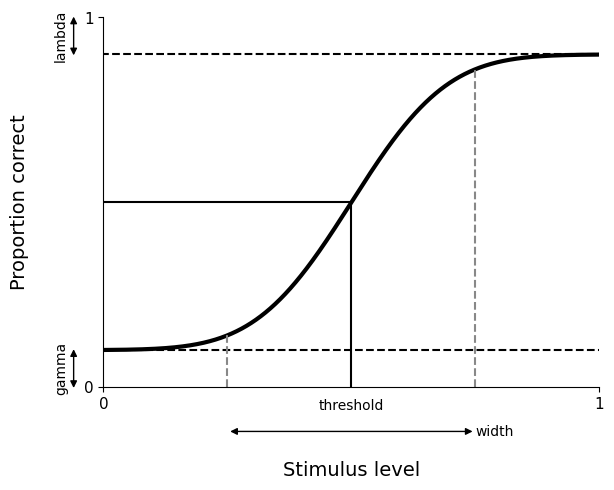
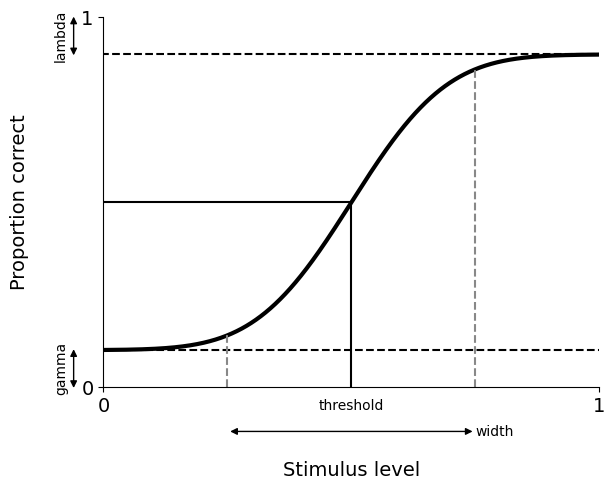
docs: update advanced options page, with visualization for thresh_PC and width_alpha

diff --git a/docs/produce_sigmoid_plot_for_docs_advanced.py b/docs/produce_sigmoid_plot_for_docs_advanced.py
@@ -8,8 +8,11 @@ sigmoid = sigmoids.sigmoid_by_name('norm', PC=0.5, alpha=0.05)
 
 threshold = 0.5
 width = 0.5
-gamma = 0.1
-lambda_ = 0.1
+gamma = 0.0
+lambda_ = 0.0
+
+width_alpha = 0.05
+
 
 gray = '#888888'
 
@@ -26,32 +29,30 @@ ax.spines[['top', 'right']].set_visible(False)
 ax.vlines(x=threshold, ymin=0, ymax=0.5, color='k', linestyle='-')
 ax.hlines(y=0.5, xmin=x.min(), xmax=threshold, color='k', linestyle='-')
 
-# gamma and lambda dashed lines
-ax.hlines(y=(1-lambda_), xmin=x.min()-0.05, xmax=x.max(), color='k', linestyle='--')
-ax.hlines(y=gamma, xmin=x.min()-0.05, xmax=x.max(), color='k', linestyle='--')
-
 
 # width dashed lines
-x2 = sigmoid.inverse(0.95, threshold, width)
-x1 = sigmoid.inverse(0.05, threshold, width)
+x2 = sigmoid.inverse(1-width_alpha, threshold, width)
+x1 = sigmoid.inverse(width_alpha , threshold, width)
 
 ax.vlines(x=x1, ymin=0, ymax=sigmoid(x1, threshold, width, gamma, lambda_),
           color=gray, linestyle='--')
 ax.vlines(x=x2, ymin=0, ymax=sigmoid(x2, threshold, width, gamma, lambda_),
           color=gray, linestyle='--')
 
-#ax.hlines(y=0.95-lambda_, xmin=0, xmax=x2, color=gray, linestyle='--')
-#ax.hlines(y=0.05+gamma, xmin=0, xmax=x1, color=gray, linestyle='--')
-
-#ax.annotate('0.05+gamma', xy=(0.0, 0.05+gamma), xytext=(-0.01, 0.05+gamma),
-#            xycoords='axes fraction', textcoords='axes fraction',
-#            ha='right', va='center', fontsize=10)
+ax.hlines(y=1-width_alpha, xmin=0, xmax=x2, color='k', linestyle='--')
+ax.hlines(y=width_alpha, xmin=0, xmax=x1, color='k', linestyle='--')
 
 
 # annotate threshold
 ax.annotate('threshold', xy=(0.5, -0.05), xytext=(0.5, -0.05),
             xycoords='axes fraction', textcoords='axes fraction',
             ha='center', va='center', fontsize=10)
+
+# annotate threshold_PC
+ax.annotate('thresh_PC', xy=(-0.05, 0.5), xytext=(-0.015, 0.5),
+            xycoords='axes fraction', textcoords='axes fraction',
+            ha='right', va='center', fontsize=10)
+
 
 # annotate width
 arrow_linecolor = 'black'
@@ -72,27 +73,27 @@ ax.annotate('width', xy=(x2, -0.12), xytext=(x2, -0.12),
 yoffset = -0.06
 
 
-ax.annotate('', xy=(yoffset, -0.01), xytext=(yoffset, gamma+0.01),
+ax.annotate('', xy=(yoffset, -0.015), xytext=(yoffset, width_alpha+0.015),
             xycoords='axes fraction', textcoords='axes fraction',
             arrowprops={'arrowstyle': '<|-|>',
                         'color': arrow_linecolor,
                         'linewidth': arrow_linewidth})
 
-ax.annotate('gamma', xy=(yoffset-0.025, 0),
-            xytext=(yoffset-0.025, gamma/2), xycoords='axes fraction',
+ax.annotate('width_alpha', xy=(yoffset-0.025, 0),
+            xytext=(yoffset-0.025, width_alpha/2), xycoords='axes fraction',
             textcoords='axes fraction', rotation=90, ha='center', va='center',
             fontsize=10)
 
 # annotate lambda
-ax.annotate('', xy=(yoffset, 1-lambda_-0.01), xytext=(yoffset, 1+0.01),
+ax.annotate('', xy=(yoffset, 1-width_alpha -0.02), xytext=(yoffset, 1+0.02),
             xycoords='axes fraction', textcoords='axes fraction',
             arrowprops={'arrowstyle': '<|-|>',
                         'color': arrow_linecolor,
                         'linewidth': arrow_linewidth})
 
 
-ax.annotate('lambda', xy=(yoffset-0.025, 0),
-            xytext=(yoffset-0.025, (1-lambda_/2)),
+ax.annotate('width_alpha ', xy=(yoffset-0.025, width_alpha),
+            xytext=(yoffset-0.025, (1-width_alpha /2)),
             xycoords='axes fraction', textcoords='axes fraction',
             rotation=90,
             ha='center', va='center', fontsize=10)
@@ -107,6 +108,8 @@ ax.set_yticklabels(["0", "1"], fontsize=14)
 ax.set_ylabel('Proportion correct', fontsize=14)
 ax.set_xlabel('Stimulus level', fontsize=14)
 ax.xaxis.set_label_coords(.5, -.2)
-ax.yaxis.set_label_coords(-.15, .5)
+ax.yaxis.set_label_coords(-.175, .5)
 
-fig.savefig('sigmoid_and_params.png', bbox_inches='tight')
+plt.show()
+
+fig.savefig('sigmoid_and_params_advanced.png', bbox_inches='tight')

diff --git a/docs/examples/advanced-options.md b/docs/examples/advanced-options.md
@@ -36,8 +36,13 @@ res = ps.psignifit(data, sigmoid='norm', experiment_type='2AFC')
 ## Estimation Type
 As described in detail in the section [Parameters estimates: MAP and mean](map_vs_mean), this option sets how you want to estimate your fit from the posterior.
 
-- 'mean': using the posterior mean. In a Bayesian sense this is a more suitable estimate of the expected value of the posterior. However, in our paper we show that for psychometric function fitting and the small datasets used in experimental psychology and the neurosciences, and for the our priors the MAP is preferable as default!
-- 'MAP': maximum a posteriori computed from the posterior. Default.
+- `mean`: using the posterior mean. 
+- `MAP`: maximum a posteriori computed from the posterior. Default.
+
+In a Bayesian sense the `mean` estimate is a more suitable estimate of the expected value of the posterior. 
+However, in the original publication it is shown that the `MAP` estimate is preferable for psychometric function fitting, given the small datasets commonly used in experimental psychology and the neurosciences.
+This justifies our choice of `MAP` as the default.
+
 
 ```{code-cell} ipython3
 # This gives the default estimate, in this case the mean estimate since we set it in the options.
@@ -92,39 +97,61 @@ res = ps.psignifit(data, CI_method='percentiles')
 res = ps.psignifit(data, CI_method='project')
 ```
 
-## Threshold definition (`thresh_PC`)
+## Sigmoid parametrization
 
-This option sets the proportion correct to correspond to the threshold on the *unscaled* sigmoid. Possible values 
-are in the range from 0 to 1, default is 0.5. The default corresponds to 75\% in a 2AFC task (midway between the 
+In *psignifit*, sigmoids are defined on the range between 0 and 1,
+to be later scaled by *gamma* and *lambda*. 
+These *unscaled* [sigmoids](plot_all_sigmoids) have two parameters:
+
+- its *threshold*, by default being the stimulus level at which the sigmoid reaches 0.5
+- its *width*, by default being the difference between the 95 and the 5 percentiles
+
+![psyfn](../sigmoid_and_params_advanced.png)
+
+You can change these definitions as explained in the following.
+
+### Threshold definition (`thresh_PC`)
+
+This option sets the proportion correct that will define the threshold,
+on the *unscaled* sigmoid. 
+Possible values are in the range from 0 to 1, default is 0.5. 
+The default corresponds to 75\% in a 2AFC task (midway between the 
 guess rate of 50 % and ceiling performance 100%).
 
-To set it to a different value, for example to 90 %, you'll do
+To set it to a different value, for example to 90%, you'll do
 
 ```{code-cell} ipython3
 res = ps.psignifit(data, thresh_PC=0.9)
 ```
 
-Note that this corresponds to a 95 \% in a 2AFC task.
+Note that this value is changed on the *unscaled* sigmoid, so for a 2AFC 
+task it corresponds to a 95 \%.
 
 Note also that you will get a warning, because the default prior assumes that the experimental
 stimulus range covers the range where the threshold likely falls. If this doesn't match your
-setup, you'll need a custom prior. See the [priors demo](priors) to learn how to do it.
+setup, you'll need to pass custom priors and evaluate their adequacy. 
+See the [priors demo](priors) to learn how to do it.
 
 
 
-## Width definition (`width_alpha`)
+### Width definition (`width_alpha`)
 
-The definition of the `width` parameter of a psychometric function can be changed with the option `width_alpha`.
+The definition of the `width` parameter of a sigmoid can be changed with 
+the option `width_alpha`. The width is defined as 
 
-`width = `$\Psi^{-1}(1-\alpha) - \Psi^{-1}(\alpha)$ where $\Psi^{-1}$ is the inverse of the sigmoid function.
+$\Psi^{-1}(1-\alpha) - \Psi^{-1}(\alpha)$ 
 
-`width_alpha` must be between 0 and .5 excluding. Default is `width_alpha=0.05`
+where $\Psi^{-1}$ is the inverse of the sigmoid function. 
+The option `width_alpha` is $\alpha$ in the formula above, and must be
+between 0 and .5 excluding. Default is `width_alpha = 0.05`
 
-For example, this would enable the usage of the interval from .1 to .9 as the width
+For example, the following code would redefine the width as 
+the interval between percentiles 10 and 90.
 
 ```{code-cell} ipython3
-res = ps.psignifit(data, width_alpha=0.05)
+res = ps.psignifit(data, width_alpha=0.1)
 ```
+
 
 ## Priors
 
@@ -138,7 +165,7 @@ The strength of the prior in favor of a binomial observer can be set with
 the `beta_prior` option. Larger values correspond to a stronger prior.
 The default value is 10; we choose this value after
 a rather large number of simulations. Refer to
-[Schütt & Wichmann (2016)](http://www.sciencedirect.com/science/article/pii/S0042698916000390) 
+[the original publication](http://www.sciencedirect.com/science/article/pii/S0042698916000390) 
 to learn more about this.
 
 ```{code-cell} ipython3
@@ -151,7 +178,7 @@ res = ps.psignifit(data, beta_prior=15)
 ```{warning}
 By changing the default bounds you might artificially bias the estimation procedure. 
 The defaults were choosen after extensive simulations; these are reported in 
-[Schütt & Wichmann (2016)](http://www.sciencedirect.com/science/article/pii/S0042698916000390). 
+[the original publication](http://www.sciencedirect.com/science/article/pii/S0042698916000390). 
 Change the defaults if you know what you are doing!
 ```
 

diff --git a/docs/basic-usage.md b/docs/basic-usage.md
@@ -64,14 +64,14 @@ This dataset comes from a simple signal detection experiment.
 
 ## Paramaters of the psychometric function
 
-In  *psignifit* the psychometric function is defined as a sigmoid ($S$)
+In  *psignifit* the psychometric function is defined as a sigmoid
 scaled by the guess and lapse rate.
 The guess rate (*gamma*) and lapse rate (*lambda*) define the lower 
 and upper asymptotes of the sigmoid, respectively. 
 
 ![psyfn](sigmoid_and_params.png)
 
-The guess rate (*gamma) is fixed for nAFC experiments, at a value of 1/n.
+The guess rate (*gamma*) is fixed for nAFC experiments, at a value of 1/n.
 Thus for a 2AFC experiment gamma is fixed to 0.5
 
 The sigmoid has two parameters:
